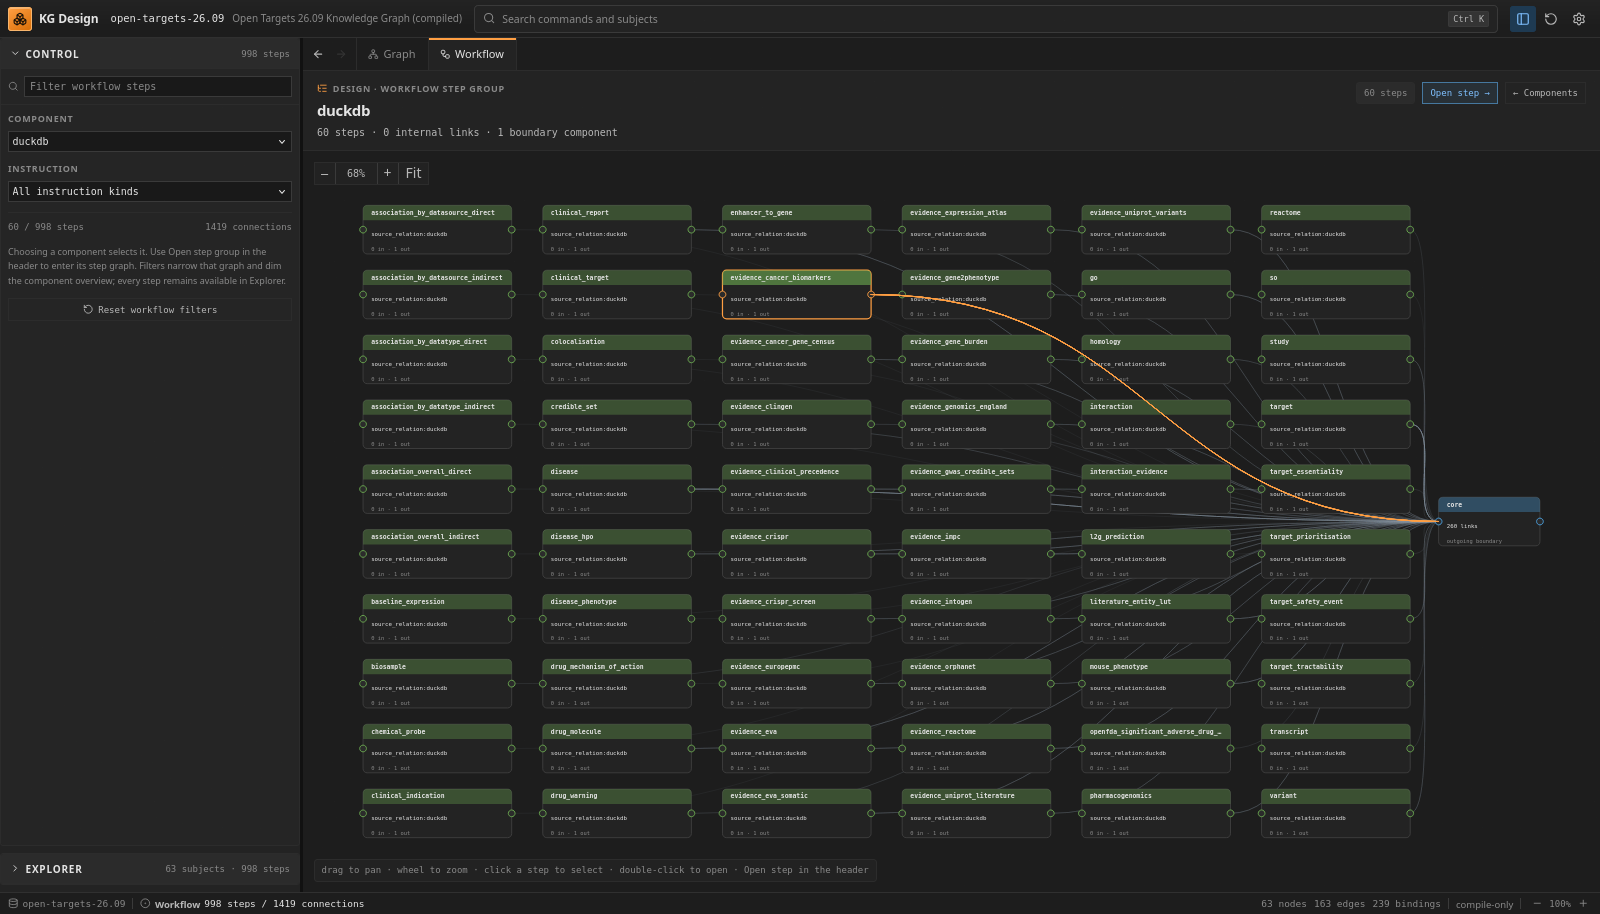
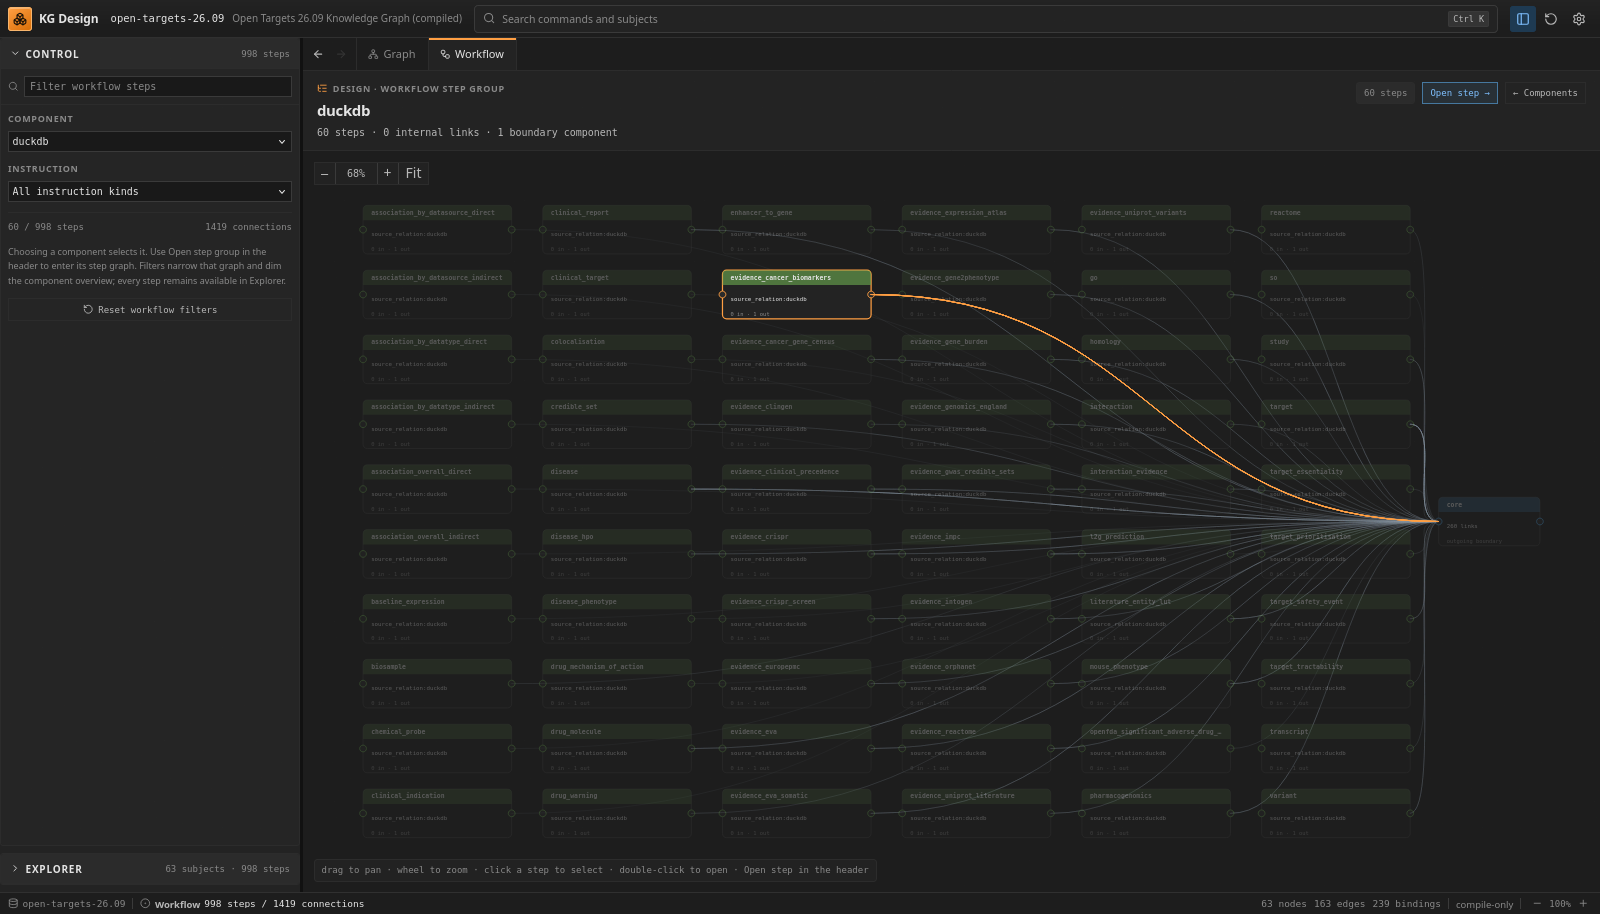
Dim every other node on workflow selection

diff --git a/viewer/workflow/view/WorkflowFeature.tsx b/viewer/workflow/view/WorkflowFeature.tsx
@@ -916,6 +916,8 @@ function stepDisplayName(value: string): string {
  * boundary nodes share the same chrome; one selected id drives the same
  * incident-link highlight and dimming in both the component and step views.
  */
+const DIM_NODE_OPACITY = 0.3;
+
 function WorkflowGraphSceneView({
   scene,
   selectedId,
@@ -1010,6 +1012,13 @@ function WorkflowGraphSceneView({
         {scene.nodes.map((node) => {
           const selected = node.id === selectedId;
           const active = !activeIds || activeIds.has(node.id);
+          // Selection dims every other node in both the component and step
+          // scenes; filters dim inactive nodes only when nothing is selected.
+          const opacity = selected
+            ? 1
+            : selectedId || !active
+              ? DIM_NODE_OPACITY
+              : 1;
           const isStep = node.kind === "step";
           const isComponent = node.kind === "component";
           const title = isStep ? stepDisplayName(node.label) : node.label;
@@ -1020,7 +1029,7 @@ function WorkflowGraphSceneView({
               key={node.id}
               transform={`translate(${node.x} ${node.y})`}
               className="cursor-pointer"
-              opacity={active ? 1 : 0.3}
+              opacity={opacity}
               role="button"
               tabIndex={0}
               aria-pressed={selected}

diff --git a/viewer/scripts/verify_design.py b/viewer/scripts/verify_design.py
@@ -407,6 +407,17 @@ def main() -> int:
                     '[data-testid="workflow-component-edge"][data-active="true"]',
                 )
             )
+            component_nodes = driver.find_elements(
+                By.CSS_SELECTOR, '[data-testid="workflow-component-node"]'
+            )
+            report["checks"]["workflow_component_dimmed"] = all(
+                node.get_attribute("opacity") == "0.3"
+                for node in component_nodes
+                if node.get_attribute("data-active") != "true"
+            ) and any(
+                node.get_attribute("data-active") != "true"
+                for node in component_nodes
+            )
             report["checks"]["workflow_step_graph_before_expand"] = bool(
                 driver.find_elements(
                     By.CSS_SELECTOR, '[data-testid="workflow-step-node"]'
@@ -530,6 +541,21 @@ def main() -> int:
                 driver.find_elements(
                     By.CSS_SELECTOR,
                     '[data-testid="workflow-step-edge"][data-active="true"]',
+                )
+            )
+            selected_steps = driver.find_elements(
+                By.CSS_SELECTOR,
+                '[data-testid="workflow-step-node"][data-active="true"]',
+            )
+            report["checks"]["workflow_step_dimmed"] = (
+                len(selected_steps) == 1
+                and selected_steps[0].get_attribute("opacity") == "1"
+                and all(
+                    node.get_attribute("opacity") == "0.3"
+                    for node in driver.find_elements(
+                        By.CSS_SELECTOR, '[data-testid="workflow-step-node"]'
+                    )
+                    if node.get_attribute("data-active") != "true"
                 )
             )
             report["checks"]["workflow_open_step_button"] = bool(

diff --git a/viewer/README.md b/viewer/README.md
@@ -51,7 +51,7 @@ The first paint shows the design, not its annotations.
 | Surface | Default | Revealed by |
 | --- | --- | --- |
 | Graph document | graph canvas and floating **Inspect** window showing graph purpose and counts | selecting an entity fills Inspect with its description, properties and meaning; clicking empty space returns to graph purpose |
-| Workflow document | compositor-style component graph with step counts and aggregated connections; drag to pan, wheel to zoom, Fit to reset | filter by component or instruction kind in Control; click a component to select it, then use **Open step group** to enter its step-level flow graph with columns filling top-to-bottom; clicking a step node selects it, **Open step** opens its detail document, and **Back** returns to components. Selecting a component, step or boundary node highlights its incident links and dims the rest; entering another step group requires **Open step group** |
+| Workflow document | compositor-style component graph with step counts and aggregated connections; drag to pan, wheel to zoom, Fit to reset | filter by component or instruction kind in Control; click a component to select it, then use **Open step group** to enter its step-level flow graph with columns filling top-to-bottom; clicking a step node selects it, **Open step** opens its detail document, and **Back** returns to components. Selecting a component, step or boundary node highlights its incident links and dims the other nodes and links; entering another step group requires **Open step group** |
 | Subject document | meaning, properties and attached semantics of the subject | property rows, the branch selector and the Explorer tree for another subject document |
 
 There is no bottom panel. The side bar carries the **Control** and **Explorer**

diff --git a/viewer/HIERARCHY.md b/viewer/HIERARCHY.md
@@ -53,7 +53,7 @@ position.
 | Document | Editor |
 | --- | --- |
 | **Graph** (pinned) | D3 force canvas, zoom/pan/drag and the floating **Inspect** window: graph purpose/overview when nothing is selected, or the selected entity's identity, properties and meaning; clicking empty space deselects |
-| **Workflow** (pinned) | compositor-style component graph; selecting a component and using **Open step group** drills into its step-level flow graph with column flow and boundary components; selecting a component, step or boundary node highlights its incident links in the same graph view, and entering another step group requires **Open step group**; drag to pan, wheel to zoom, Fit to reset; Back returns to components; filters from Control narrow the step graph |
+| **Workflow** (pinned) | compositor-style component graph; selecting a component and using **Open step group** drills into its step-level flow graph with column flow and boundary components; selecting a component, step or boundary node highlights its incident links and dims the other nodes in the same graph view, and entering another step group requires **Open step group**; drag to pan, wheel to zoom, Fit to reset; Back returns to components; filters from Control narrow the step graph |
 | **Step** | one workflow step's instruction, payload, openings, connections and blueprint bindings on the same detail surface as node and subject documents; opened from the workflow section of Explorer |
 | **Subject** (node, edge, property, asset, abstract) | design meaning, properties, attached semantics and, for a property, provenance lanes and type/presence |
 

diff --git a/viewer/DESIGN_LANGUAGE.md b/viewer/DESIGN_LANGUAGE.md
@@ -72,7 +72,7 @@ The first paint states the design, not every annotation.
 | --- | --- | --- | --- |
 | Graph document | circles, thin relation links, hub labels | all labels, relation names | containment, semantics, property counts |
 | Graph inspection | graph purpose and counts when nothing is selected; otherwise identity and description | properties with types | attached claims, frames and limitations |
-| Workflow document | one graph view: a compositor-style component graph, or a step-level flow graph where steps fill columns top-to-bottom after **Open step group**; selecting any node, including a boundary component, highlights its incident links in both; drag to pan and wheel to zoom | aggregated connection counts and active components | the step catalogue in Explorer and its step documents |
+| Workflow document | one graph view: a compositor-style component graph, or a step-level flow graph where steps fill columns top-to-bottom after **Open step group**; selecting any node, including a boundary component, highlights its incident links and dims the other nodes in both; drag to pan and wheel to zoom | aggregated connection counts and active components | the step catalogue in Explorer and its step documents |
 | Step document | identity, instruction and openings on the shared detail surface | payload values | connections and blueprint bindings |
 | Subject document | subject meaning and properties | attached semantics along the path | property provenance, type/presence chain and trace |
 

diff --git a/viewer/screenshots/README.md b/viewer/screenshots/README.md
@@ -14,7 +14,7 @@ They are review aids, not golden images.
 | `07-preview-tab.png` | A single click in the graph Explorer opened one preview tab (`adverse_event`, italic). |
 | `08-detail-property.png` | **Go to Detail** on a property opened a permanent document while the preview tab remained. |
 | `09-explorer-menu.png` | Right-clicking an Explorer row offers **Go to Detail** and **Go to Graph**; workflow items offer **Go to Workflow**. |
-| `10-workflow-step-graph.png` | A selected workflow component opened with **Open step group**, showing its step-level flow graph inside the Workflow tab. The selected step highlights its incident boundary links and dims the rest; **Open step** opens its detail document. Steps fill columns top-to-bottom without row wrapping. |
+| `10-workflow-step-graph.png` | A selected workflow component opened with **Open step group**, showing its step-level flow graph inside the Workflow tab. The selected step highlights its incident boundary links and dims the other steps; **Open step** opens its detail document. Steps fill columns top-to-bottom without row wrapping. |
 | `11-workflow-selected-component.png` | Left-clicking a workflow component selects it without opening the step graph; its aggregated links highlight, the rest dim, and **Open step group** is the explicit expansion control. |
 
 A tab is a standalone document. It changes its editor and the applicable Control

diff --git a/AGENTS.md b/AGENTS.md
@@ -128,8 +128,9 @@ rule about what the framework is belongs to the framework model.
   is fitted on entry. A detail document uses
   one shared surface: header, body and panel chrome do not vary by subject kind;
   a new kind adds content, not chrome. A graph view uses one renderer and one
-  selection rule for every node and link kind; a new level or kind adds data,
-  not a second renderer.
+  selection rule for every node and link kind; selecting a node dims every other
+  node and non-incident link. A new level or kind adds data, not a second
+  renderer.
 - End every change report with the rule-promotion result: none, refined or
   added.
 
